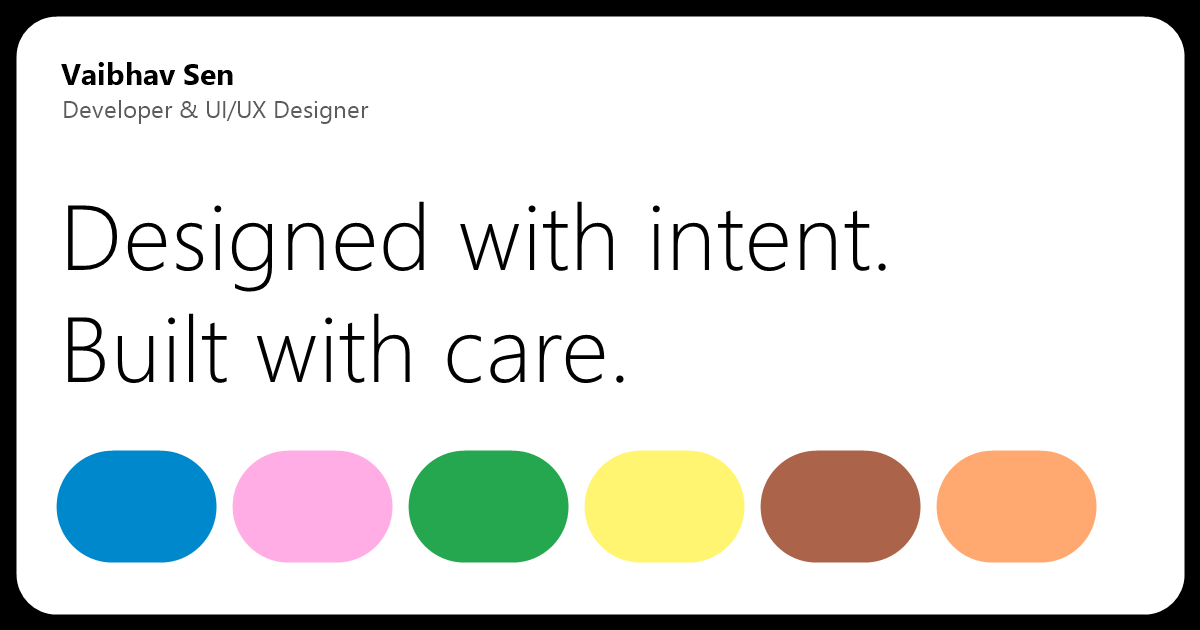
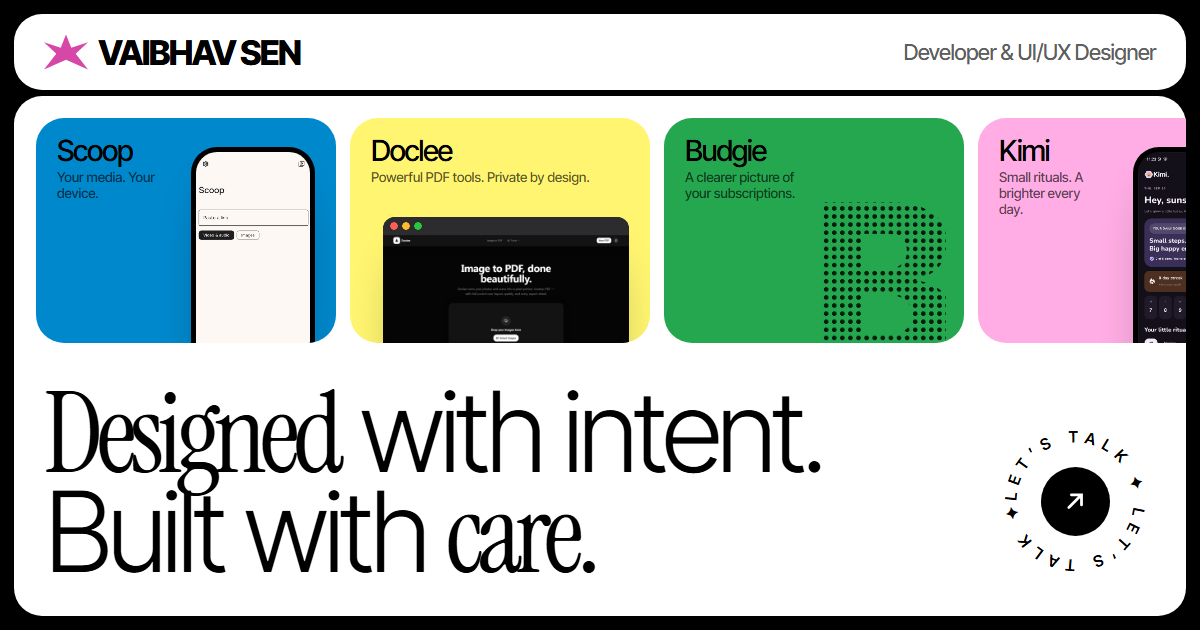
feat: redesign the share image to match the site
The image shown when the link is shared (WhatsApp, LinkedIn, Discord,
X) was a plain white card in a system font with colour blobs. It is now
a 1200x630 copy of the hero: the star logo and name, the project cards
with real screenshots (Scoop, Doclee, Budgie, Kimi), the "Designed with
intent. Built with care." headline and the Let's Talk sticker.

- Its source is tools/og-image.html, built from the site's own
  style.css and fonts. It stays out of the live site (.vercelignore),
  and the README explains how to remake it.
- The share tags now give the image's size and a description. A ?v=2
  on its URL makes sharing apps fetch the new image instead of their
  cached copy.

diff --git a/tools/og-image.html b/tools/og-image.html
@@ -1,0 +1,53 @@
+<!doctype html>
+<!--
+  Source of og-image.png: the picture shown when the site's link is shared (WhatsApp, LinkedIn, Discord, X).
+  A 1200 × 630 copy of the hero, built from the site's own style.css, fonts and project screenshots.
+  It isn't published (see .vercelignore). To remake og-image.png after a design change, start the
+  preview server (preview.bat), then from this folder's parent run:
+    msedge --headless=new --hide-scrollbars --force-device-scale-factor=1 --window-size=1200,630
+           --virtual-time-budget=5000 --screenshot=og-image.png http://localhost:5500/tools/og-image.html
+-->
+<html lang="en">
+<head>
+  <meta charset="utf-8">
+  <title>Share image</title>
+  <link rel="preload" href="../assets/fonts/inter-tight-latin.woff2" as="font" type="font/woff2" crossorigin>
+  <link rel="preload" href="../assets/fonts/instrument-serif-latin.woff2" as="font" type="font/woff2" crossorigin>
+  <link rel="stylesheet" href="../style.css">
+  <style>
+    html, body { width: 1200px; height: 630px; overflow: hidden; }
+    body { display: flex; flex-direction: column; gap: 6px; padding: 14px; }
+    .og-nav { flex: none; display: flex; align-items: center; justify-content: space-between; height: 76px; padding: 0 30px; border-radius: 28px; background: #fff; }
+    .og-nav .logo { font-size: 34px; }
+    .og-nav .logo-mark { width: 44px; height: 35px; }
+    .og-role { font-size: 22px; letter-spacing: -0.03em; color: var(--ink-64); }
+    .og-hero { position: relative; flex: 1; overflow: hidden; border-radius: 28px; background: #fff; }
+    /* The project strip runs off the right edge, like the scrolling one on the site.
+       A phone card goes last so the edge cuts through a screen, never through words. */
+    .og-cards { position: absolute; top: 22px; left: 22px; display: flex; gap: 14px; }
+    .og-cards .card { width: 300px; height: 225px; margin: 0; border-radius: 28px; }
+    .og-hero h1 { position: absolute; left: 30px; bottom: 34px; font-size: 112px; font-weight: 300; line-height: .86; letter-spacing: -0.06em; }
+    .og-hero .talk-sticker { right: 36px; bottom: 40px; width: 150px; height: 150px; }
+    .talk-ring { animation: none; }
+  </style>
+</head>
+<body>
+  <header class="og-nav">
+    <span class="logo"><span class="logo-mark"></span><span class="logo-text">VAIBHAV SEN</span></span>
+    <span class="og-role">Developer &amp; UI/UX Designer</span>
+  </header>
+  <section class="og-hero">
+    <div class="og-cards">
+      <div class="card c0 card-phone"><div class="card-head"><span class="name">Scoop</span><span class="tagline">Your media. Your device.</span></div><div class="frame frame-phone card-shot"><img src="../assets/projects/scoop-home.jpg" alt=""></div></div>
+      <div class="card c3 card-browser"><div class="card-head"><span class="name">Doclee</span><span class="tagline">Powerful PDF tools. Private by design.</span></div><div class="frame frame-browser card-shot"><span class="frame-bar"></span><img src="../assets/projects/doclee.jpg" alt=""></div></div>
+      <div class="card c2"><div class="card-head"><span class="name">Budgie</span><span class="tagline">A clearer picture of your subscriptions.</span></div><span class="card-initial">B</span></div>
+      <div class="card c1 card-phone"><div class="card-head"><span class="name">Kimi</span><span class="tagline">Small rituals. A brighter every day.</span></div><div class="frame frame-phone card-shot"><img src="../assets/projects/kimi-today.jpg" alt=""></div></div>
+    </div>
+    <h1><span class="serif">Designed</span> with intent.<br>Built with <span class="serif">care.</span></h1>
+    <span class="talk-sticker">
+      <svg class="talk-ring" viewBox="0 0 200 200"><defs><path id="talk-ring" d="M100 100m-78 0a78 78 0 1 1 156 0a78 78 0 1 1-156 0"/></defs><text><textPath href="#talk-ring" textLength="486" lengthAdjust="spacing">LET’S TALK ✦ LET’S TALK ✦ </textPath></text></svg>
+      <span class="talk-core"><svg viewBox="0 0 24 24" fill="none" stroke="currentColor" stroke-width="2.2" stroke-linecap="round"><path d="M7 17 17 7M9 7h8v8"/></svg></span>
+    </span>
+  </section>
+</body>
+</html>

diff --git a/index.html b/index.html
@@ -18,12 +18,17 @@
 <meta property="og:url" content="https://vabxsen.vercel.app/">
 <meta property="og:title" content="Vaibhav Sen — Developer & UI/UX Designer">
 <meta property="og:description" content="I turn complex ideas into simple, thoughtful digital experiences.">
-<meta property="og:image" content="https://vabxsen.vercel.app/og-image.png">
-<meta property="og:image:alt" content="Vaibhav Sen — Developer & UI/UX Designer">
+<!-- ?v= makes sharing apps fetch the image again; bump it whenever og-image.png changes (its source is tools/og-image.html) -->
+<meta property="og:image" content="https://vabxsen.vercel.app/og-image.png?v=2">
+<meta property="og:image:type" content="image/png">
+<meta property="og:image:width" content="1200">
+<meta property="og:image:height" content="630">
+<meta property="og:image:alt" content="Vaibhav Sen’s portfolio: project cards for Scoop, Doclee, Budgie and Kimi above the headline “Designed with intent. Built with care.”">
 <meta name="twitter:card" content="summary_large_image">
 <meta name="twitter:title" content="Vaibhav Sen — Developer & UI/UX Designer">
 <meta name="twitter:description" content="I turn complex ideas into simple, thoughtful digital experiences.">
-<meta name="twitter:image" content="https://vabxsen.vercel.app/og-image.png">
+<meta name="twitter:image" content="https://vabxsen.vercel.app/og-image.png?v=2">
+<meta name="twitter:image:alt" content="Vaibhav Sen’s portfolio: project cards for Scoop, Doclee, Budgie and Kimi above the headline “Designed with intent. Built with care.”">
 <!-- Structured data: tells search engines who this site is about -->
 <script type="application/ld+json">
 {

diff --git a/README.md b/README.md
@@ -39,6 +39,10 @@ It's opt-in: nothing plays until the visitor presses **♪ Play music** in the b
 2. Copy its endpoint (looks like `https://formspree.io/f/abcdwxyz`).
 3. Paste it into `formEndpoint` in `content.js`.
 
+## Share image
+
+`og-image.png` is the picture shown when the site's link is shared (WhatsApp, LinkedIn, Discord, X). It's a 1200 × 630 copy of the hero, made from `tools/og-image.html` with the site's own styles and screenshots. After changing the design, remake it with the command at the top of that file, then bump the `?v=` number on the two `og-image.png` links in `index.html` so sharing apps fetch the new one.
+
 ## Deploying
 
 The site lives at https://vabxsen.vercel.app. Every push to `main` deploys it automatically.
